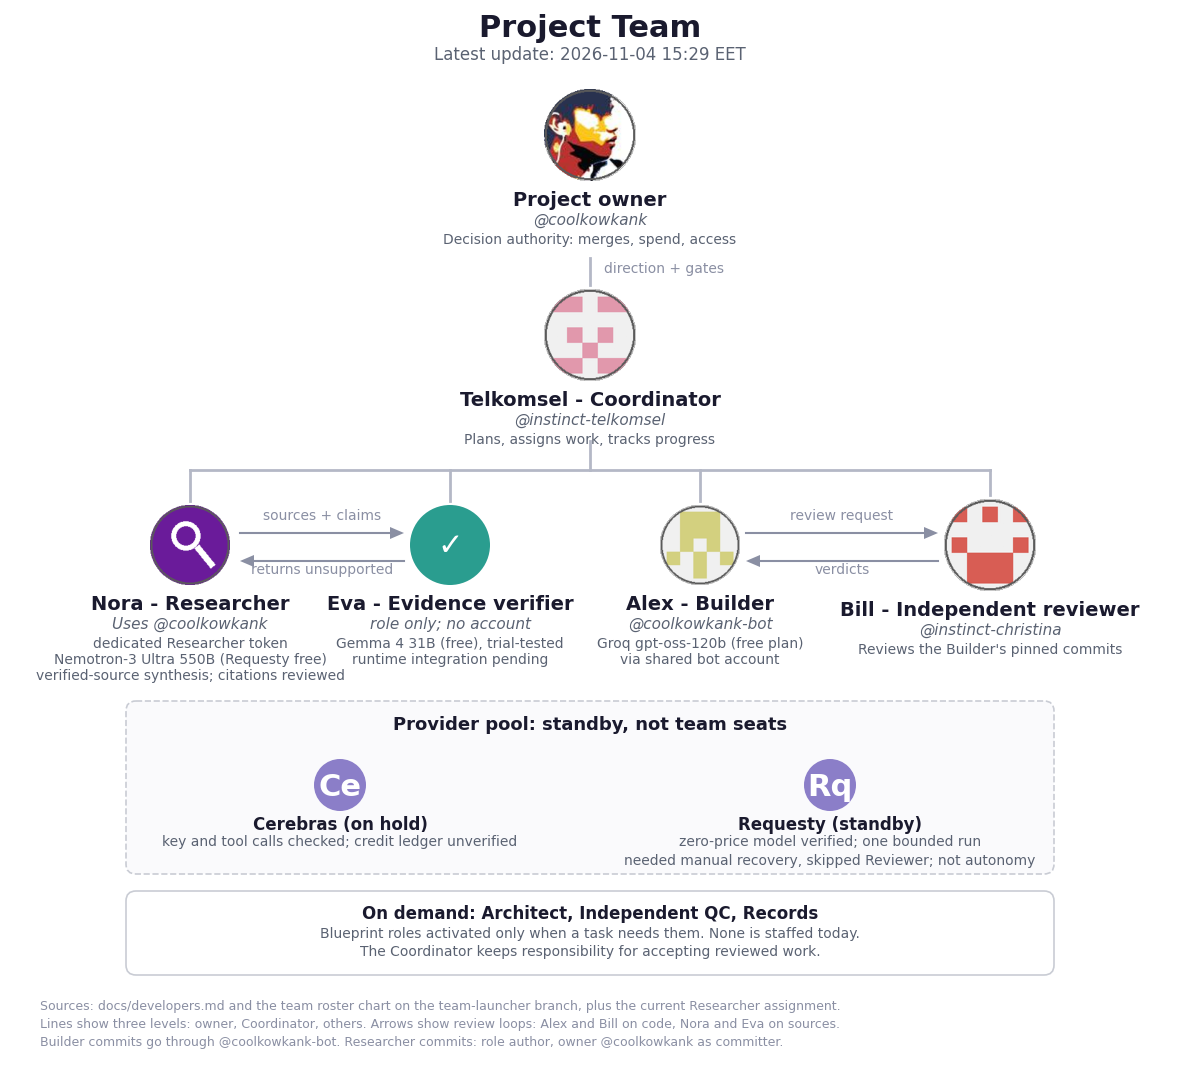
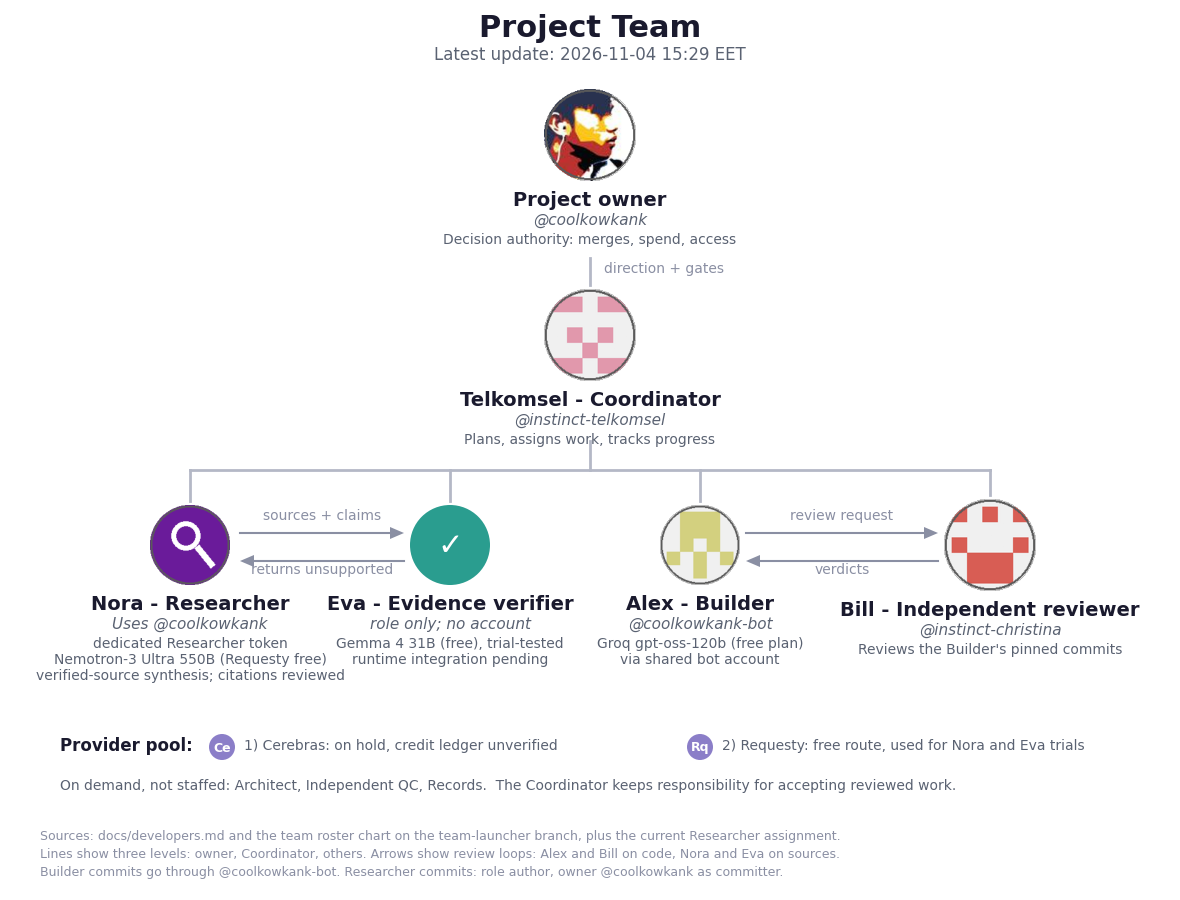
README progress: 15:29 update - compact provider line on team chart, Requesty status; no credit change (47.5%)

Changed region(s): [[0.0305, 0.0, 0.9763, 0.9956]]

diff --git a/docs/progress/team_chart.py b/docs/progress/team_chart.py
@@ -8,18 +8,18 @@ from matplotlib.patches import Circle, FancyBboxPatch, Polygon
 INK = "#1a1a2e"; GRAY = "#5a6272"; ARROW = "#8a8fa3"; PURPLE = "#8b7ec8"
 
 def render(here, updated):
-    W, H = 1180, 1080
+    W, H = 1180, 900
     fig = plt.figure(figsize=(W/100, H/100), dpi=100)
     ax = fig.add_axes([0, 0, 1, 1]); ax.set_xlim(0, W); ax.set_ylim(H, 0); ax.axis("off")
     img = lambda n: mpimg.imread(os.path.join(here, "avatars", n + ".png"))
     def text(x, y, s, size=12, color=GRAY, weight="normal", style="normal", ha="center"):
         ax.text(x, y, s, fontsize=size, color=color, fontweight=weight, fontstyle=style, ha=ha, va="top")
-    def node(cx, cy, r, name=None, icon=None, bg=PURPLE):
+    def node(cx, cy, r, name=None, icon=None, bg=PURPLE, fs=22):
         if name:
             ax.imshow(img(name), extent=(cx-r, cx+r, cy+r, cy-r), zorder=3)
         else:
             ax.add_patch(Circle((cx, cy), r, fc=bg, ec="none", zorder=3))
-            ax.text(cx, cy+2, icon, fontsize=22, color="white", fontweight="bold", ha="center", va="center", zorder=4)
+            ax.text(cx, cy+1, icon, fontsize=fs, color="white", fontweight="bold", ha="center", va="center", zorder=4)
         ax.set_xlim(0, W); ax.set_ylim(H, 0)
     def arrow(p1, p2, label=None, lx=0, ly=0, rad=0.0):
         dx, dy = p2[0]-p1[0], p2[1]-p1[1]; d = math.hypot(dx, dy)
@@ -64,18 +64,13 @@ def render(here, updated):
     arrow((REV[0]-52,REV[1]+16),(BLD[0]+46,BLD[1]+16),"verdicts",0,2)
     ax.annotate("", xy=(0,0), xytext=(0,0))
     ax.annotate("", xy=(0,0), xytext=(0,0))
-    # model pool
-    ax.add_patch(FancyBboxPatch((130,705),920,165,boxstyle="round,pad=4,rounding_size=10",fc="#fafafc",ec="#c9ccd4",lw=1.2,ls="--"))
-    text(W/2,716,"Provider pool: standby, not team seats",13,INK,"bold")
-    node(340,785,26,icon="Ce"); node(830,785,26,icon="Rq")
-    text(340,816,"Cerebras (on hold)",12,INK,"bold"); text(340,835,"key and tool calls checked; credit ledger unverified",10)
-    text(830,816,"Requesty (standby)",12,INK,"bold"); text(830,854,"needed manual recovery, skipped Reviewer; not autonomy",10)
-    text(830,835,"zero-price model verified; one bounded run",10)
-    ax.add_patch(FancyBboxPatch((130,895),920,76,boxstyle="round,pad=4,rounding_size=10",fc="white",ec="#c9ccd4",lw=1.2))
-    text(W/2,905,"On demand: Architect, Independent QC, Records",12,INK,"bold")
-    text(W/2,927,"Blueprint roles activated only when a task needs them. None is staffed today.",10)
-    text(W/2,945,"The Coordinator keeps responsibility for accepting reviewed work.",10)
-    text(40,1000,"Sources: docs/developers.md and the team roster chart on the team-launcher branch, plus the current Researcher assignment.",9,"#8a8fa3",ha="left")
-    text(40,1018,"Lines show three levels: owner, Coordinator, others. Arrows show review loops: Alex and Bill on code, Nora and Eva on sources.",9,"#8a8fa3",ha="left")
-    text(40,1036,"Builder commits go through @coolkowkank-bot. Researcher commits: role author, owner @coolkowkank as committer.",9,"#8a8fa3",ha="left")
+    # compact provider line (details live in docs)
+    y0=745
+    text(60,y0-8,"Provider pool:",12,INK,"bold",ha="left")
+    node(222,y0+2,13,icon="Ce",fs=9); text(244,y0-6,"1) Cerebras: on hold, credit ledger unverified",10,ha="left")
+    node(700,y0+2,13,icon="Rq",fs=9); text(722,y0-6,"2) Requesty: free route, used for Nora and Eva trials",10,ha="left")
+    text(60,y0+34,"On demand, not staffed: Architect, Independent QC, Records.  The Coordinator keeps responsibility for accepting reviewed work.",10,ha="left")
+    text(40,830,"Sources: docs/developers.md and the team roster chart on the team-launcher branch, plus the current Researcher assignment.",9,"#8a8fa3",ha="left")
+    text(40,848,"Lines show three levels: owner, Coordinator, others. Arrows show review loops: Alex and Bill on code, Nora and Eva on sources.",9,"#8a8fa3",ha="left")
+    text(40,866,"Builder commits go through @coolkowkank-bot. Researcher commits: role author, owner @coolkowkank as committer.",9,"#8a8fa3",ha="left")
     fig.savefig(os.path.join(here, "team.png")); plt.close(fig)

diff --git a/docs/progress/README.md b/docs/progress/README.md
@@ -34,6 +34,8 @@ Team chart levels: owner on top, Coordinator one level below, all other roles on
 
 Eva - Evidence verifier is a planned role for checking Nora's sources (existence, metadata, and whether the cited passage supports the claim, with uncertainty) before publication. Model: Gemma 4 31B on the Requesty free route, trial-tested on 2 calls at zero reported cost with 7 of 7 fixture verdicts correct (executor report; role doc at team-launcher 06479b3). It is a manual review workflow only. Runtime roster wiring and a mechanical gate are not implemented, so it is not automated or fully operational. It has no GitHub account or token, and the document and trial alone earn no milestone credit. The Coordinator keeps responsibility for accepting reviewed work.
 
+Provider pool (kept short on the chart): Cerebras is on hold, with the key and tool calls checked and the credit ledger unverified. Requesty's free route is in use for the Nora and Eva trials only. Requesty also ran one bounded Builder run that needed manual recovery and skipped the Reviewer, so it is not autonomy. Providers are not team seats.
+
 Project aliases: Telkomsel (Coordinator), Alex (Builder), Nora (Researcher), Bill (Independent reviewer, Christina's existing project name). They are display names only; account, model and status facts are unchanged.
 
 The large icon is the accountable current owner by role assignment, not by who authored commits. Small icons are contributors. The shared bot account is not a unique model identity, and the Researcher uses a role icon instead of an avatar. Since 15:10 it publishes through the owner's dedicated token with the Researcher role as commit author and the owner as committer. That is a publishing route, not a new GitHub account, and earns no product credit. Model for Nora: Nemotron-3 Ultra 550B on the Requesty free route, for verified-source synthesis with citations reviewed. A 3-request trial returned zero reported cost with good reasoning and format, but some citations were wrong or unverified, so it is not trusted for finding references on its own. This earns no research-quality pass and no extra milestone credit.
